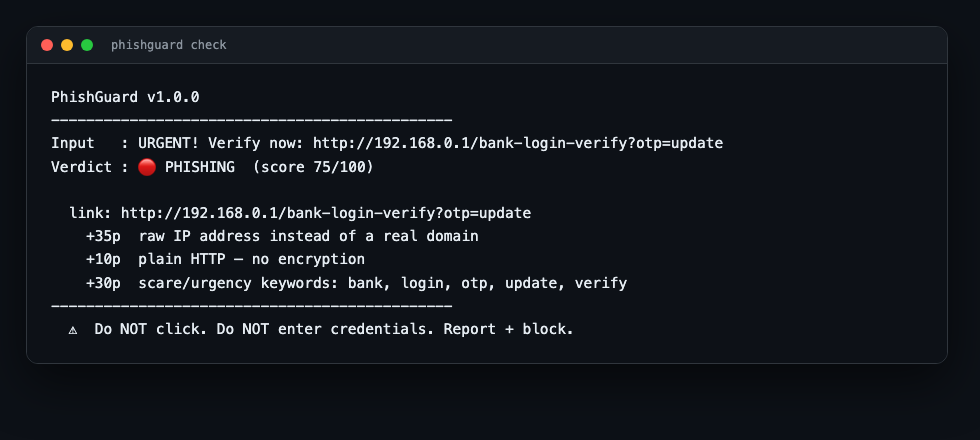
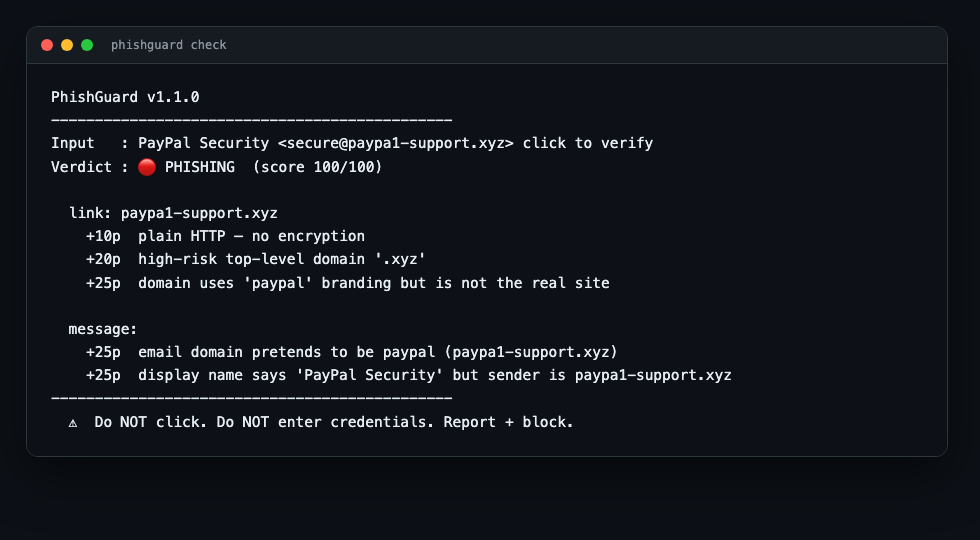
v1.1.0: brand-spoof/homoglyph detection, base64/hex hidden URLs, email spoof checks, 11 unit tests, refreshed screenshots

Changed region(s): [[0.0306, 0.1477, 0.7653, 0.7977], [0.0306, 0.0591, 0.2449, 0.1182]]

diff --git a/phishguard.py b/phishguard.py
@@ -8,7 +8,7 @@ import urllib.parse
 import urllib.request
 from http.server import BaseHTTPRequestHandler, ThreadingHTTPServer
 
-VERSION = "1.0.0"
+VERSION = "1.1.0"
 
 SENSITIVE_KEYWORDS = [
     "login", "log-in", "signin", "sign-in", "verify", "verification",
@@ -34,6 +34,26 @@ TRUSTED_DOMAINS = {
     "facebook.com", "whatsapp.com", "hackerone.com", "hackthebox.com",
     "tryhackme.com", "stackoverflow.com", "openai.com", "anthropic.com",
     "mozilla.org", "python.org", "npmjs.com", "pypi.org",
+    "github.io", "raw.githubusercontent.com", "gitlab.com", "x.com",
+    "reddit.com", "discord.com", "telegram.org", "linkedin.com",
+}
+
+BRANDS = [
+    "google", "github", "paypal", "facebook", "instagram", "whatsapp",
+    "netflix", "amazon", "apple", "microsoft", "twitter", "linkedin",
+    "tiktok", "snapchat", "reddit", "discord", "telegram", "coinbase",
+    "binance", "paytm", "phonepe", "googlepay", "irctc", "hdfc",
+    "icici", "flipkart", "myntra", "zomato", "swiggy", "hotstar",
+    "spotify", "youtube", "airtel",
+]
+
+LOOKALIKES = {
+    "а": "a", "е": "e", "ё": "e", "о": "o", "р": "p", "с": "c",
+    "і": "i", "ї": "i", "ԁ": "d", "к": "k", "м": "m", "т": "t",
+    "х": "x", "у": "y", "ѕ": "s", "в": "b", "н": "h", "і": "i",
+    "ο": "o", "α": "a", "ɑ": "a", "ɡ": "g", "ε": "e", "ι": "i",
+    "ν": "v", "ρ": "p", "τ": "t", "υ": "u", "κ": "k", "γ": "y",
+    "0": "o", "1": "l", "3": "e", "5": "s", "7": "t", "@": "a",
 }
 
 LINK_RE = re.compile(
@@ -67,6 +87,102 @@ def normalize(url):
     if not re.match(r"^[a-z][a-z0-9+.-]*://", url, re.IGNORECASE):
         url = "http://" + url
     return url
+
+
+def levenshtein(a, b):
+    if a == b:
+        return 0
+    prev = list(range(len(b) + 1))
+    for i, ca in enumerate(a, 1):
+        cur = [i]
+        for j, cb in enumerate(b, 1):
+            cur.append(min(prev[j] + 1, cur[j - 1] + 1, prev[j - 1] + (ca != cb)))
+        prev = cur
+    return prev[-1]
+
+
+def map_lookalikes(s):
+    return "".join(LOOKALIKES.get(ch, ch) for ch in s.lower())
+
+
+def brand_in_domain(host):
+    mapped = map_lookalikes(host)
+    for brand in BRANDS:
+        if brand in mapped:
+            return brand
+    for label in mapped.split("."):
+        if len(label) < 4:
+            continue
+        for brand in BRANDS:
+            if len(brand) >= 4 and levenshtein(label, brand) <= 2:
+                return brand
+    return None
+
+
+def scan_message(text):
+    findings = []
+    points = 0
+
+    blobs = re.findall(r"[A-Za-z0-9+/_-]{24,}={0,2}", text)
+    for blob in blobs:
+        decoded = ""
+        try:
+            import base64 as _b64
+            pad = "=" * (-len(blob) % 4)
+            for decoder in (_b64.b64decode, _b64.urlsafe_b64decode):
+                try:
+                    decoded = (decoder(blob + pad) or b"").decode("utf-8", "ignore")
+                    break
+                except Exception:
+                    continue
+        except Exception:
+            decoded = ""
+        if "http" in decoded.lower():
+            findings.append((30, f"hidden URL inside an encoded blob → {decoded.strip()[:90]}"))
+            points += 30
+            break
+
+    for blob in re.findall(r"(?:[0-9a-fA-F]{2}){20,}", text):
+        try:
+            decoded = bytes.fromhex(blob).decode("utf-8", "ignore")
+        except Exception:
+            continue
+        if "http" in decoded.lower():
+            findings.append((30, f"hidden URL inside hex-encoded data → {decoded.strip()[:90]}"))
+            points += 30
+            break
+
+    for domain in re.findall(r"@([a-z0-9][a-z0-9.-]+\.[a-z]{2,24})", text, re.IGNORECASE):
+        domain = domain.lower().strip(".")
+        if any(domain == d or domain.endswith("." + d) for d in TRUSTED_DOMAINS):
+            continue
+        brand = brand_in_domain(domain)
+        if brand:
+            findings.append((25, f"email domain pretends to be {brand} ({domain})"))
+            points += 25
+        else:
+            labels = domain.split(".")
+            if labels and labels[-1] in SUSPICIOUS_TLDS:
+                findings.append((20, f"email on high-risk TLD '.{labels[-1]}' ({domain})"))
+                points += 20
+
+    match = re.search(r"([A-Za-z][A-Za-z0-9 ._'-]{2,40})\s*<\s*[^<>\s]+@[^<>\s]+\s*>", text)
+    if match:
+        display = match.group(1)
+        sender_domain = re.search(r"@([^<>\s>]+)", text)
+        dom = sender_domain.group(1).lower() if sender_domain else ""
+        for brand in BRANDS:
+            if brand in display.lower() and not any(
+                dom == d or dom.endswith("." + d) for d in TRUSTED_DOMAINS
+            ):
+                findings.append((
+                    25,
+                    f"display name says '{display.strip()}' but sender is {dom or 'unknown'}",
+                ))
+                points += 25
+                break
+
+    return findings, min(50, points)
 
 
 def extract_links(text):
@@ -147,6 +263,14 @@ def score_url(url):
     if trusted:
         score -= 25
         findings.append((-25, "matches a well-known trusted domain"))
+    else:
+        if any(ord(ch) > 127 for ch in host):
+            score += 25
+            findings.append((25, "unicode look-alike characters in domain"))
+        brand = brand_in_domain(host)
+        if brand:
+            score += 25
+            findings.append((25, f"domain uses '{brand}' branding but is not the real site"))
 
     score = max(0, min(100, score))
     if trusted and score < 45:
@@ -195,12 +319,14 @@ def ask_ollama(text):
 
 def analyze(text):
     links = extract_links(text)
-    if not links:
+    msg_findings, msg_points = scan_message(text)
+    if not links and not msg_findings:
         return {
             "input": text,
             "verdict": "SAFE",
             "score": 0,
             "links": [],
+            "message_findings": [],
             "ai": None,
             "ai_error": None,
             "note": "no link found in input — heuristic scan only",
@@ -224,6 +350,15 @@ def analyze(text):
             worst_verdict = verdict
             worst_score = score
 
+    combined = min(100, worst_score + msg_points)
+    if combined >= 60:
+        worst_verdict = "PHISHING"
+    elif combined >= 30:
+        worst_verdict = "SUSPICIOUS"
+    else:
+        worst_verdict = "SAFE"
+    worst_score = combined
+
     ai = None
     ai_error = None
     if not os.environ.get("PHISHGUARD_NO_AI"):
@@ -238,6 +373,7 @@ def analyze(text):
         "verdict": worst_verdict,
         "score": worst_score,
         "links": link_results,
+        "message_findings": [{"points": p, "detail": d} for p, d in msg_findings],
         "ai": ai,
         "ai_error": ai_error,
         "note": None,
@@ -272,6 +408,11 @@ def render_text(result, as_json=False):
             lines.append(f"    {c(color, sign + str(pts) + 'p'):>0}  {f['detail']}")
         if not link["findings"]:
             lines.append(c("dim", "    no suspicious signals"))
+    if result.get("message_findings"):
+        lines.append("")
+        lines.append(c("cyan", "  message:"))
+        for f in result["message_findings"]:
+            lines.append(f"    {c('red', '+' + str(f['points']) + 'p')}  {f['detail']}")
     if result.get("ai"):
         ai = result["ai"]
         lines.append("")
@@ -333,6 +474,11 @@ def render_html(result):
                 color = "#ff7b72" if f["points"] > 0 else "#56d364"
                 sign = "+" if f["points"] > 0 else ""
                 items.append(f'<li style="color:{color}">{sign}{f["points"]}p &mdash; {f["detail"]}</li>')
+            items.append("</ul>")
+        if result.get("message_findings"):
+            items.append('<p style="color:#58a6ff">message signals</p><ul>')
+            for f in result["message_findings"]:
+                items.append(f'<li style="color:#ff7b72">+{f["points"]}p &mdash; {f["detail"]}</li>')
             items.append("</ul>")
         if result.get("ai"):
             ai_html = f'<div class="ai">🤖 Local AI ({result["ai"]["model"]}): {result["ai"]["verdict"]} &mdash; {result["ai"]["reason"]}</div>'

diff --git a/tests/test_phishguard.py b/tests/test_phishguard.py
@@ -1,0 +1,75 @@
+import base64
+import os
+import sys
+import unittest
+
+sys.path.insert(0, os.path.dirname(os.path.dirname(os.path.abspath(__file__))))
+os.environ["PHISHGUARD_NO_AI"] = "1"
+
+import phishguard as pg
+
+
+class ScoreUrlTests(unittest.TestCase):
+    def test_raw_ip_link_is_phishing(self):
+        score, verdict, _ = pg.score_url("http://192.168.0.1/bank-login-verify?otp=update")
+        self.assertGreaterEqual(score, 60)
+        self.assertEqual(verdict, "PHISHING")
+
+    def test_trusted_github_is_safe(self):
+        score, verdict, _ = pg.score_url("https://github.com/shri7-lab/Htb-Notes")
+        self.assertEqual(verdict, "SAFE")
+        self.assertLess(score, 30)
+
+    def test_shortener_is_suspicious(self):
+        score, verdict, findings = pg.score_url("https://bit.ly/free-jio-recharge")
+        self.assertEqual(verdict, "SUSPICIOUS")
+        self.assertTrue(any("shortener" in d for _, d in findings))
+
+    def test_brand_spoof_domain_flagged(self):
+        score, verdict, findings = pg.score_url("https://paypal-secure.tk/login")
+        self.assertIn(verdict, ("SUSPICIOUS", "PHISHING"))
+        self.assertTrue(any("paypal" in d for _, d in findings))
+
+    def test_homoglyph_digits_brand_flagged(self):
+        score, verdict, findings = pg.score_url("http://g00gle-login.com/verify")
+        self.assertGreaterEqual(score, 30)
+        self.assertTrue(any("branding" in d for _, d in findings))
+
+    def test_unicode_cyrillic_flagged(self):
+        _, _, findings = pg.score_url("http://gооgle-support.com/verify")
+        self.assertTrue(any("look-alike" in d for _, d in findings))
+
+
+class MessageScanTests(unittest.TestCase):
+    def test_base64_hidden_url_detected(self):
+        hidden = base64.b64encode(b"http://evil.test/login").decode()
+        result = pg.analyze("please open " + hidden + " thanks")
+        self.assertTrue(result["message_findings"])
+        self.assertGreaterEqual(result["score"], 30)
+
+    def test_email_spoof_detected(self):
+        result = pg.analyze("PayPal Security <secure@paypa1-support.xyz>")
+        details = " ".join(f["detail"] for f in result["message_findings"])
+        link_details = " ".join(
+            f["detail"] for link in result["links"] for f in link["findings"]
+        )
+        self.assertTrue("paypal" in details or "paypal" in link_details)
+        self.assertIn(result["verdict"], ("SUSPICIOUS", "PHISHING"))
+
+    def test_clean_text_is_safe(self):
+        result = pg.analyze("hey bro, call me when you reach the mess")
+        self.assertEqual(result["verdict"], "SAFE")
+        self.assertTrue(result["note"])
+
+    def test_multi_link_extraction_unique(self):
+        links = pg.extract_links("see github.com/a and https://bit.ly/x and github.com/a")
+        self.assertEqual(len(links), 2)
+
+    def test_result_has_stable_json_keys(self):
+        result = pg.analyze("http://192.168.0.1/login")
+        for key in ("input", "verdict", "score", "links", "message_findings", "ai", "note"):
+            self.assertIn(key, result)
+
+
+if __name__ == "__main__":
+    unittest.main()

diff --git a/README.md b/README.md
@@ -11,7 +11,7 @@
 ```
 $ python3 phishguard.py check "verify ur account here bit.ly/free-jio-recharge before it expires"
 
-PhishGuard v1.0.0
+PhishGuard v1.1.0
 ----------------------------------------------
 Input   : verify ur account here bit.ly/free-jio-recharge before it expires
 Verdict : 🟠 SUSPICIOUS  (score 41/100)
@@ -31,6 +31,10 @@ Verdict : 🟠 SUSPICIOUS  (score 41/100)
   (via [Ollama](https://ollama.com)) for the fuzzy "is this message a scam?" cases.
 - **Explainable** — every point is itemized (+35p raw IP, +20p risky TLD, …) instead of a
   black-box score.
+- **Advanced offline detection** — brand-spoof & homoglyph domains (`g00gle-login.com`,
+  Cyrillic look-alikes), **hidden URLs inside base64/hex blobs**, and **display-name email
+  spoofing** (`PayPal Security <secure@paypa1-support.xyz>`) — all without a single network call.
+- **Tested** — 11 unit tests, stdlib `unittest` only (see below).
 - **Privacy by design** — cloud checkers want you to paste the suspicious link into someone
   else's server. PhishGuard runs 100% on your laptop.
 - **Browser demo included** — one command gives you a dark-themed web UI you can share with
@@ -92,6 +96,10 @@ If Ollama isn't running, PhishGuard degrades gracefully to heuristic-only mode a
 | Raw IPv4 address instead of a domain | +35 |
 | `@` embedded in URL (host-spoof trick) | +25 |
 | Punycode / IDN (`xn--`) homograph host | +25 |
+| Unicode look-alike characters in domain | +25 |
+| Brand spoof (`paypal-secure.tk`, `g00gle-login.com`) | +25 |
+| Display name says "PayPal", sender isn't | +25 |
+| Hidden URL inside a base64/hex blob | +30 |
 | High-risk TLD (`.zip` `.tk` `.xyz` `.top` …) | +20 |
 | Link shortener (bit.ly, rb.gy, …) | +15 |
 | Deep subdomains / long URL / extra port | +8…+15 |
@@ -100,6 +108,14 @@ If Ollama isn't running, PhishGuard degrades gracefully to heuristic-only mode a
 | Trusted brand domain (github.com, google.com …) | −25 |
 
 **SAFE** < 30 · **SUSPICIOUS** 30–59 · **PHISHING** ≥ 60
+
+## 🧪 Tests
+
+11 tests, pure standard library — no pytest, no mocks, no network:
+
+```bash
+python3 -m unittest discover -s tests -v
+```
 
 ## 🌐 Free live demo
 
@@ -121,6 +137,8 @@ the full AI mode runs on your own machine — that's the point.)
 ```
 phishguard/
 ├── phishguard.py   # the whole tool (CLI + web server), stdlib only
+├── tests/          # 11 unittest cases — scoring, spoofing, hidden URLs
+├── render.yaml     # one-click Render blueprint
 ├── ARTICLE.md      # DEV.to write-up draft
 ├── LICENSE         # MIT
 └── README.md

diff --git a/ARTICLE.md b/ARTICLE.md
@@ -49,6 +49,21 @@ Verdict : 🔴 PHISHING  (score 75/100)
 
 No mystery score. Every point has a reason your friend can *understand*.
 
+And because phishing in 2026 doesn't stop at shady URLs, the scanner also catches the
+sneaky ones — all **offline, zero network calls**:
+
+- **Brand spoofing:** `paypal-secure.tk`, `g00gle-login.com` → flagged for using a brand
+  they don't own (with digit + Cyrillic look-alike normalization, `g00gle` → `google`)
+- **Hidden URLs:** base64/hex blobs in a message that decode to `http://evil...`
+- **Email spoofing:** `PayPal Security <secure@paypa1-support.xyz>` → display name and
+  sender domain disagree
+
+```
+  message:
+    +30p  hidden URL inside an encoded blob → http://evil.test/login
+    +25p  display name says 'PayPal Security' but sender is paypa1-support.xyz
+```
+
 ## The architecture: rules + open-source AI
 
 Pure blocklists miss novel scams. Pure LLMs hallucinate and need your data to leave the
@@ -122,6 +137,11 @@ python3 phishguard.py web   # dark-themed UI on localhost:8080
 What surprised me: **most phishing detection advice online is "look for the lock icon and check
 the spelling."** My friends don't do that at 11 PM. They need a *second pair of eyes that
 answers in 2 seconds* — not a lecture.
+
+Everything above runs on **11 stdlib `unittest` tests** (`python3 -m unittest discover -s tests`)
+— scoring thresholds, homoglyph spoofs, hidden blobs, email fakes. When I changed a score
+value at 1 AM, the suite caught the regression before I did. For a "one file, no dependencies"
+tool, tests felt like the grown-up thing to have.
 
 ## What's next (steal these ideas if you want)
 
